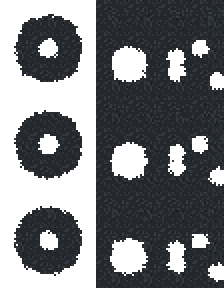
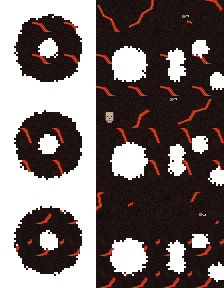
Make Hell's two grounds glow: black cinder with ember cracks, slag with molten seams
Both sheets are restamped through their own alpha (splat_check passes),
so only the colour inside the cells changes. Both tiles are Hell-only.
Cinder ash's map colour follows the new dark ground.

diff --git a/src/main/java/stairwaytoheaven/realms/hell/tiles/CinderAshTile.java b/src/main/java/stairwaytoheaven/realms/hell/tiles/CinderAshTile.java
@@ -25,7 +25,7 @@ public class CinderAshTile extends SkyGroundTile {
 
     public CinderAshTile() {
         super(false, "cinderash");
-        this.mapColor = new Color(74, 78, 86);
+        this.mapColor = new Color(46, 24, 20);
     }
 
     /**
